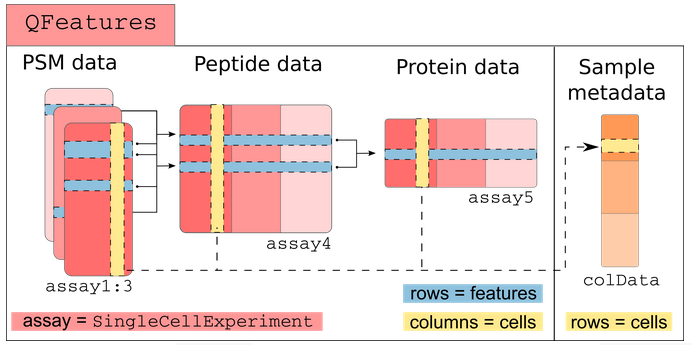
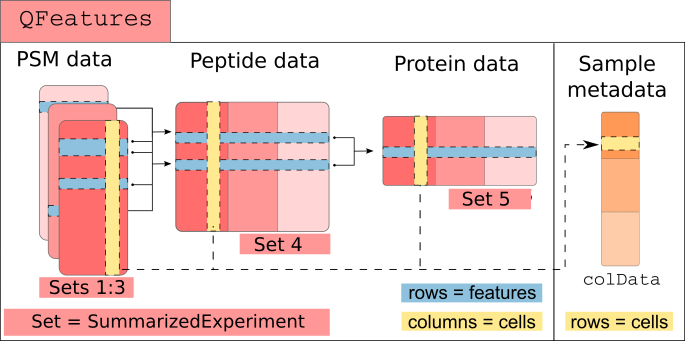
Change data structure

Changed region(s): [[0.0, 0.0, 1.0, 1.0], [0.5825, 0.7038, 0.6131, 0.7331], [0.5825, 0.6158, 0.6131, 0.6452]]

diff --git a/presentation.html b/presentation.html
@@ -6,8 +6,8 @@
 <script src="presentation_files/libs/quarto-html/tippy.umd.min.js"></script>
 <link href="presentation_files/libs/quarto-html/tippy.css" rel="stylesheet">
 <link href="presentation_files/libs/quarto-html/light-border.css" rel="stylesheet">
-<link href="presentation_files/libs/quarto-html/quarto-syntax-highlighting-845c23b38eaddc0f92fda52bfe77a8c8.css" rel="stylesheet" id="quarto-text-highlighting-styles"><meta charset="utf-8">
-  <meta name="generator" content="quarto-1.9.36">
+<link href="presentation_files/libs/quarto-html/quarto-syntax-highlighting-b719d3d4935f2b08311a76135e2bf442.css" rel="stylesheet" id="quarto-text-highlighting-styles"><meta charset="utf-8">
+  <meta name="generator" content="quarto-1.7.28">
 
   <meta name="author" content="Léopold Guyot, Loïc Guille">
   <title>QFeaturesGUI, une interface graphique pour l’analyse de données de single-cell proteomics</title>
@@ -17,9 +17,6 @@
   <link rel="stylesheet" href="presentation_files/libs/revealjs/dist/reset.css">
   <link rel="stylesheet" href="presentation_files/libs/revealjs/dist/reveal.css">
   <style>
-    /* Default styles provided by pandoc.
-    ** See https://pandoc.org/MANUAL.html#variables-for-html for config info.
-    */
     code{white-space: pre-wrap;}
     span.smallcaps{font-variant: small-caps;}
     div.columns{display: flex; gap: min(4vw, 1.5em);}
@@ -98,7 +95,7 @@
     code span.vs { color: #20794d; } /* VerbatimString */
     code span.wa { color: #5e5e5e; font-style: italic; } /* Warning */
   </style>
-  <link rel="stylesheet" href="presentation_files/libs/revealjs/dist/theme/quarto-1a8385bbf955fbb4448938bc10efacf4.css">
+  <link rel="stylesheet" href="presentation_files/libs/revealjs/dist/theme/quarto-8a5cdbf101a0845817b98f2425171703.css">
   <link rel="stylesheet" href="style.css">
   <link href="presentation_files/libs/revealjs/plugin/quarto-line-highlight/line-highlight.css" rel="stylesheet">
   <link href="presentation_files/libs/revealjs/plugin/reveal-menu/menu.css" rel="stylesheet">
@@ -208,14 +205,14 @@ Léopold Guyot, Loïc Guille
 </div>
 </div>
 
-  <p class="date">19 mai 2026</p>
+  <p class="date">20 mai 2026</p>
 </section>
 <section id="pourquoi-étudier-la-single-cell-proteomics" class="slide level2">
 <h2>Pourquoi étudier la single-cell proteomics ?</h2>
 <div class="single-cell-proteome-main">
 <ul>
 <li><p>Protéines = activité cellulaire</p></li>
-<li><p>Corrélation ARNm/protéines pas parfaite [Budnik et al., 2018]</p></li>
+<li><p>La corrélation ARNm/protéines n’est pas parfaite [Budnik et al., 2018]</p></li>
 <li><p>Causes:</p>
 <ul>
 <li>Régulation traductionnelle</li>
@@ -236,30 +233,36 @@ Léopold Guyot, Loïc Guille
 </section>
 <section id="structure-de-données" class="slide level2">
 <h2>Structure de données</h2>
-<div style="font-size: 70%;">
 <h3 id="summarizedexperiment">SummarizedExperiment</h3>
-<p>Le package <code>summarizedExperiment</code> contient deux classes : <code>summarizedExperiment</code> et <code>RangedSummarizedExperiment</code></p>
-<p>L’objet <code>summarizedExperiment</code> est un container de matrices ou les lignes représentent les variables d’intérêts (gènes, transcripts, etc …) et les colonnes représentent les échantillons. Un objet peut contenir un ou plusieurs assays, chacun représenté par une matrice.</p>
-<h3 id="singlecellexperiment">SingleCellExperiment</h3>
-<p>La classe <code>singleCellExperiment</code> est un container pour écrire et manipuler des données de cellule unique génomique. Elle étend la classe <code>RangedSummarizedExperiment</code> et suit des conventions similaires. Cette classe fournit des méthodes pour stocker les résultats de réduction de dimension.</p>
-</div>
+<div class="columns">
+<div class="column" style="font-size: 40%;">
+<p><img data-src="SummarizedExperiment.png"> <em>Figure modifiée depuis la vignette SummarizedExperiment</em></p>
+</div><div class="column" style="font-size: 70%;">
+<p>Classe <code>SummarizedExperiment</code>:</p>
+<p>assay = données quantitatives.</p>
+<p>rowData = Annotations des variables d’intérêt (gènes, transcripts, protéines, …).</p>
+<p>colData = Annotation des échantillons.</p>
+</div></div>
 </section>
 <section id="qfeatures" class="slide level2">
 <h2>QFeatures</h2>
-<p>L’infrastructure QFeatures permet la gestion et le traitement de données quantitatives de spectrometrie de masse à haut débit.</p>
+<p>L’infrastructure QFeatures permet la gestion et le traitement de données quantitatives de spectrométrie de masse à haut débit.</p>
 <p>Ce qu’il faut savoir :</p>
 <div class="columns">
-<div class="column" style="font-size: 70%;">
-<p>- Les données de PSM sont divisées en plusieurs séries (1 série = 1 run)</p>
-<p>- Suivies du lien entre les séries</p>
-<p>- L’objet final contient chaque version des données</p>
+<div class="column" style="font-size: 60%;">
+<p>- Un objet QFeatures est composé de plusieurs sets</p>
+<p>- Chaque set est un <code>SummarizedExperiment</code></p>
+<p>- Modifier les données entraine la création de nouveaux sets.</p>
+<p>- Existence de lien entre les sets.</p>
+<p>- L’objet final contient chaque version des données.</p>
 </div><div class="column" style="font-size: 70%;">
 <p><img data-src="QFeatures.png"></p>
 </div></div>
 </section>
 <section id="pourquoi-utiliser-qfeaturesgui" class="slide level2">
 <h2>Pourquoi utiliser QFeaturesGUI ?</h2>
-<p>QFeaturesGUI est une collection d’application shiny fournissant une interface graphique pour l’analyse de données protéomiques en utilisant l’écosystème Bioconductor. QFeaturesGUI peut utiliser des workflows de single-cell et de bulk.</p>
+<p>- Permet à des non experts d’utiliser l’écosystème BioConductor.</p>
+<p>- Interactivité et visualisation.</p>
 
 <img data-src="QFeaturesGUI.png" class="quarto-figure quarto-figure-center r-stretch"></section>
 <section id="qfeaturesgui" class="slide level2">
@@ -270,61 +273,49 @@ Léopold Guyot, Loïc Guille
 </ul>
 </div>
 <div class="cell">
-<div class="code-copy-outer-scaffold"><div class="sourceCode cell-code" id="cb1"><pre class="sourceCode numberSource r number-lines code-with-copy"><code class="sourceCode r"><span id="cb1-1"><a href=""></a><span class="cf">if</span> (<span class="sc">!</span><span class="fu">require</span>(<span class="st">"BiocManager"</span>, <span class="at">quietly =</span> <span class="cn">TRUE</span>))</span>
-<span id="cb1-2"><a href=""></a>    <span class="fu">install.packages</span>(<span class="st">"BiocManager"</span>)</span>
-<span id="cb1-3"><a href=""></a></span>
-<span id="cb1-4"><a href=""></a>BiocManager<span class="sc">::</span><span class="fu">install</span>(<span class="st">"UCLouvain-CBIO/QFeaturesGUI"</span>)</span></code></pre></div><button title="Copier vers le presse-papier" class="code-copy-button"><i class="bi"></i></button></div>
+<div class="sourceCode cell-code" id="cb1"><pre class="sourceCode numberSource r number-lines code-with-copy"><code class="sourceCode r"><span id="cb1-1"><a href=""></a><span class="co"># install.packages("BiocManager")</span></span>
+<span id="cb1-2"><a href=""></a></span>
+<span id="cb1-3"><a href=""></a>BiocManager<span class="sc">::</span><span class="fu">install</span>(<span class="st">"UCLouvain-CBIO/QFeaturesGUI"</span>)</span></code><button title="Copier vers le presse-papier" class="code-copy-button"><i class="bi"></i></button></pre></div>
 </div>
 <div style="font-size:70%">
-<p><code>importQFeatures</code> est une application permettant l’import de données de protéomique quantitative en objet QFeatures.</p>
+<p><code>QFeaturesGUI</code> contient 2 applications shiny</p>
 <ul>
-<li>Pour démarrer l’application:</li>
+<li><p><code>importQFeatures</code></p></li>
+<li><p><code>processQFeatures</code></p></li>
 </ul>
-</div>
-<div class="cell">
-<div class="code-copy-outer-scaffold"><div class="sourceCode cell-code" id="cb2"><pre class="sourceCode numberSource r number-lines code-with-copy"><code class="sourceCode r"><span id="cb2-1"><a href=""></a><span class="fu">library</span>(QFeaturesGUI)</span>
-<span id="cb2-2"><a href=""></a></span>
-<span id="cb2-3"><a href=""></a><span class="fu">importQFeatures</span>()</span></code></pre></div><button title="Copier vers le presse-papier" class="code-copy-button"><i class="bi"></i></button></div>
 </div>
 </section>
 <section id="importqfeatures" class="slide level2">
 <h2>importQFeatures</h2>
-<h3 id="paramètres">Paramètres</h3>
-<div style="font-size:70%">
+<h3 id="données-dentrée">Données d’entrée</h3>
+<div style="font-size:80%">
 <p>l’application prends en entrée 2 paramètres, un <code>assayData</code> et un <code>colData</code></p>
-<p><code>assayData</code> : cette table est générée après l’identification et la quantification du spectre de MS via l’utilisation de software comme MaxQuant, Proteome Discoverer ou bien MSFragger.</p>
+<p><code>assayData</code>: table générée après l’identification et la quantification des spectres de MS.</p>
 <ul>
-<li><p>cas avec un jeu de données simple:</p>
-<ul>
-<li><p>Colonnes quantitatives (1:n) (Non obligatoire si présence d’un colData)</p></li>
+<li><p>Colonnes quantitatives</p></li>
 <li><p>Annotations des variables d’intérêt (séquence peptidique, charge des ions, …)</p></li>
-</ul></li>
-<li><p>cas avec un jeu de donnée multiple:</p>
-<ul>
-<li><p>Colonne d’identifiant de run</p></li>
-<li><p>Colonnes quantitatives (1:n)</p></li>
-<li><p>Annotation des variables d’intérêt</p></li>
-</ul></li>
-<li><p><code>colData</code>: cette table contient le design experimental généré par l’utilisateur.</p></li>
+<li><p>(Colonne d’identifiant d’acquisition)</p></li>
 </ul>
 </div>
 </section>
 <section id="importqfeatures-1" class="slide level2">
 <h2>importQFeatures</h2>
-<h3 id="paramètres-1">Paramètres</h3>
-<div style="font-size:70%">
-<p><code>colData</code>: cette table contient le design expérimental généré par l’utilisateur.</p>
+<h3 id="données-dentrée-1">Données d’entrée</h3>
+<div style="font-size:90%">
+<p><code>colData</code>: table contenant le design expérimental (optionnel).</p>
 <ul>
-<li><p>Cas avec un jeu de donnée simple:</p>
-<ul>
-<li>Une colonne nommée <code>quantCols</code> qui lie un échantillon à une colonne dans <code>assayData</code> qui contient les intensitées.</li>
-</ul></li>
-<li><p>Cas avec un jeu de données mutliple:</p>
-<ul>
-<li><p>Une colonne nommée <code>quantCols</code> qui lie un échantillon à une colonne dans <code>assayData</code> qui contient les intensitées.</p></li>
-<li><p>Une colonne <code>runCol</code> identifiant le run associé à l’échantillon.</p></li>
-</ul></li>
+<li><p>Une colonne <code>quantCols</code> identifiant la colonne quantitative dans l’<code>assayData</code> associé à chaque échantillon.</p></li>
+<li><p>(Une colonne <code>runCol</code> identifiant l’acquisition associé à chaque échantillon.)</p></li>
 </ul>
+</div>
+</section>
+<section id="importqfeatures-2" class="slide level2">
+<h2>importQFeatures</h2>
+<h3 id="en-pratique">En pratique</h3>
+<div class="cell">
+<div class="sourceCode cell-code" id="cb2"><pre class="sourceCode numberSource r number-lines code-with-copy"><code class="sourceCode r"><span id="cb2-1"><a href=""></a><span class="fu">library</span>(QFeaturesGUI)</span>
+<span id="cb2-2"><a href=""></a></span>
+<span id="cb2-3"><a href=""></a><span class="fu">importQFeatures</span>()</span></code><button title="Copier vers le presse-papier" class="code-copy-button"><i class="bi"></i></button></pre></div>
 </div>
 </section>
 <section id="processqfeatures" class="slide level2">
@@ -333,22 +324,16 @@ Léopold Guyot, Loïc Guille
 <div style="font-size:80%">
 <p><code>processQFeatures</code> est une application permettant l’analyse des objets QFeatures.</p>
 </div>
-<h3 id="format-dentrée">Format d’entrée</h3>
+<h3 id="données-dentrée-2">Données d’entrée</h3>
 <div style="font-size:80%">
 <p>Il existe plusieurs choix afin de passer un objet QFeatures.</p>
-<p>Avec un objet chargé dans l’environnement R:</p>
 <div class="cell">
-<div class="code-copy-outer-scaffold"><div class="sourceCode cell-code" id="cb3"><pre class="sourceCode numberSource r number-lines code-with-copy"><code class="sourceCode r"><span id="cb3-1"><a href=""></a><span class="co">#qf_objet est un objet QFeatures</span></span>
-<span id="cb3-2"><a href=""></a><span class="fu">processQFeatures</span>(<span class="at">qf =</span> qf_objet)</span></code></pre></div><button title="Copier vers le presse-papier" class="code-copy-button"><i class="bi"></i></button></div>
-</div>
-<p>Avec un objet depuis un fichier rds:</p>
-<div class="cell">
-<div class="code-copy-outer-scaffold"><div class="sourceCode cell-code" id="cb4"><pre class="sourceCode numberSource r number-lines code-with-copy"><code class="sourceCode r"><span id="cb4-1"><a href=""></a>qf_obj <span class="ot">&lt;-</span> <span class="fu">readRDS</span>(<span class="st">"Path/2/File.rds"</span>)</span>
-<span id="cb4-2"><a href=""></a><span class="fu">processQFeatures</span>(<span class="at">qf =</span> qf_obj)</span>
-<span id="cb4-3"><a href=""></a></span>
-<span id="cb4-4"><a href=""></a><span class="co">#or </span></span>
-<span id="cb4-5"><a href=""></a></span>
-<span id="cb4-6"><a href=""></a><span class="fu">processQFeatures</span>(<span class="at">qf =</span> <span class="st">"Path/2/File.rds"</span>)</span></code></pre></div><button title="Copier vers le presse-papier" class="code-copy-button"><i class="bi"></i></button></div>
+<div class="sourceCode cell-code" id="cb3"><pre class="sourceCode numberSource r number-lines code-with-copy"><code class="sourceCode r"><span id="cb3-1"><a href=""></a><span class="co"># qf_objet est un objet QFeatures dans l'environnement</span></span>
+<span id="cb3-2"><a href=""></a><span class="fu">processQFeatures</span>(<span class="at">qf =</span> qf_objet)</span>
+<span id="cb3-3"><a href=""></a></span>
+<span id="cb3-4"><a href=""></a><span class="co"># ou</span></span>
+<span id="cb3-5"><a href=""></a><span class="co"># pathToRDS est un fichier rds contenant un objet QFeatures</span></span>
+<span id="cb3-6"><a href=""></a><span class="fu">processQFeatures</span>(<span class="at">qf =</span> <span class="st">"pathToRDS"</span>)</span></code><button title="Copier vers le presse-papier" class="code-copy-button"><i class="bi"></i></button></pre></div>
 </div>
 </div>
 </section>
@@ -359,7 +344,7 @@ Léopold Guyot, Loïc Guille
 <p><span style="text-decoration: underline;">Disponibilité sur github</span>:</p>
 <p>- <a href="https://github.com/UCLouvain-CBIO/QFeaturesGUI">github.com/UCLouvain-CBIO/QFeaturesGUI</a></p>
 <p><span style="text-decoration: underline">Disponibilité via Docker</span>:</p>
-<p>- Une image pour chaque application sera disponible via docker</p>
+<p>- Une image pour chaque application sera disponible via Dockerhub</p>
 <p>Disponibilité via Bioconductor sur la release 3.25</p>
 </div>
 <h3 id="développements-futurs">Développements futurs</h3>
@@ -561,7 +546,7 @@ Léopold Guyot, Loïc Guille
         margin: 0.1,
 
         math: {
-          mathjax: 'https://cdn.jsdelivr.net/npm/mathjax@2.7.9/MathJax.js',
+          mathjax: 'https://cdnjs.cloudflare.com/ajax/libs/mathjax/2.7.9/MathJax.js',
           config: 'TeX-AMS_HTML-full',
           tex2jax: {
             inlineMath: [['\\(','\\)']],
@@ -673,14 +658,13 @@ Léopold Guyot, Loïc Guille
           e.clearSelection();
         }
         const getTextToCopy = function(trigger) {
-          const outerScaffold = trigger.parentElement.cloneNode(true);
-          const codeEl = outerScaffold.querySelector('code');
-          for (const childEl of codeEl.children) {
-            if (isCodeAnnotation(childEl)) {
-              childEl.remove();
+            const codeEl = trigger.previousElementSibling.cloneNode(true);
+            for (const childEl of codeEl.children) {
+              if (isCodeAnnotation(childEl)) {
+                childEl.remove();
+              }
             }
-          }
-          return codeEl.innerText;
+            return codeEl.innerText;
         }
         const clipboard = new window.ClipboardJS('.code-copy-button:not([data-in-quarto-modal])', {
           text: getTextToCopy
